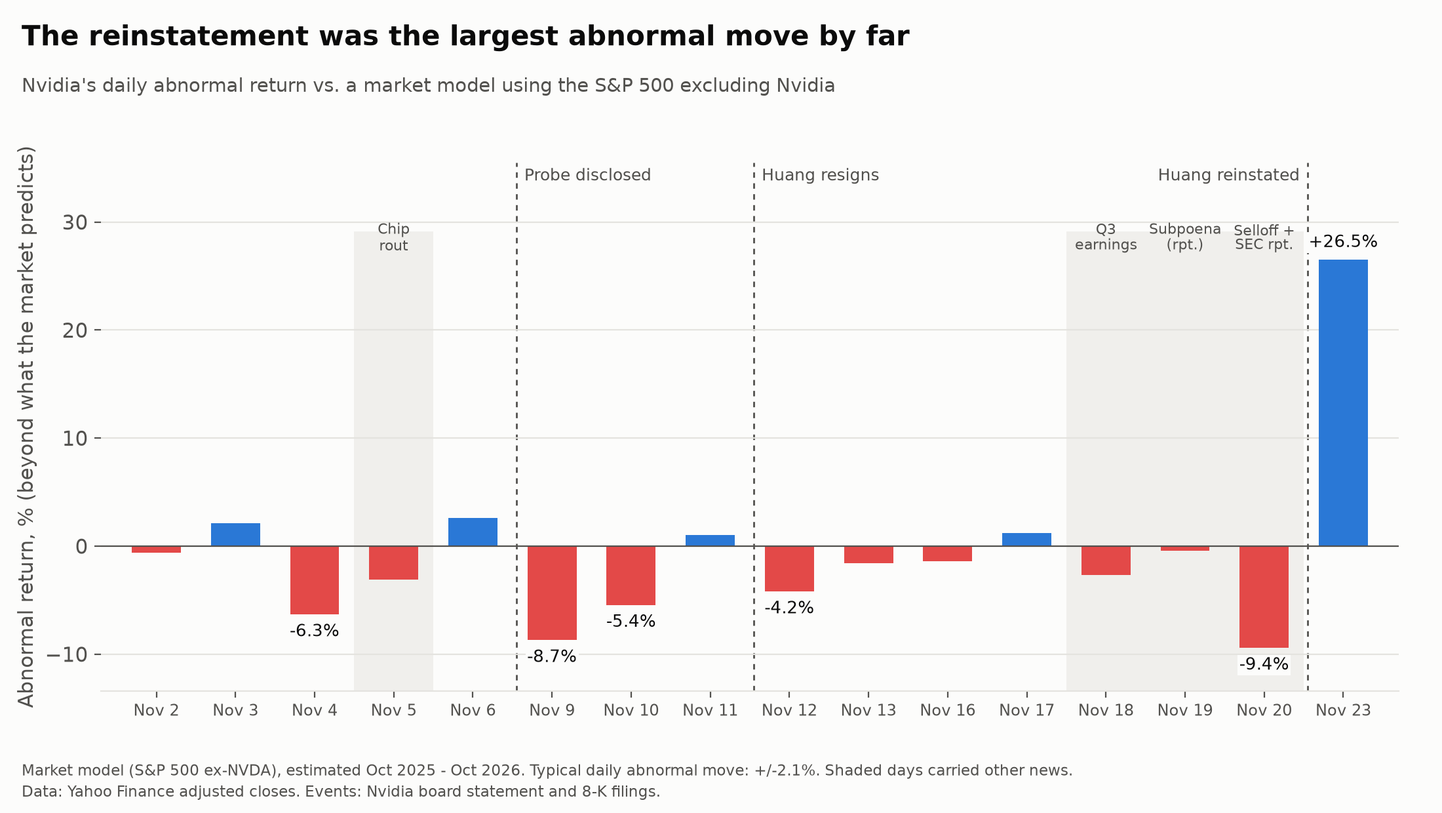
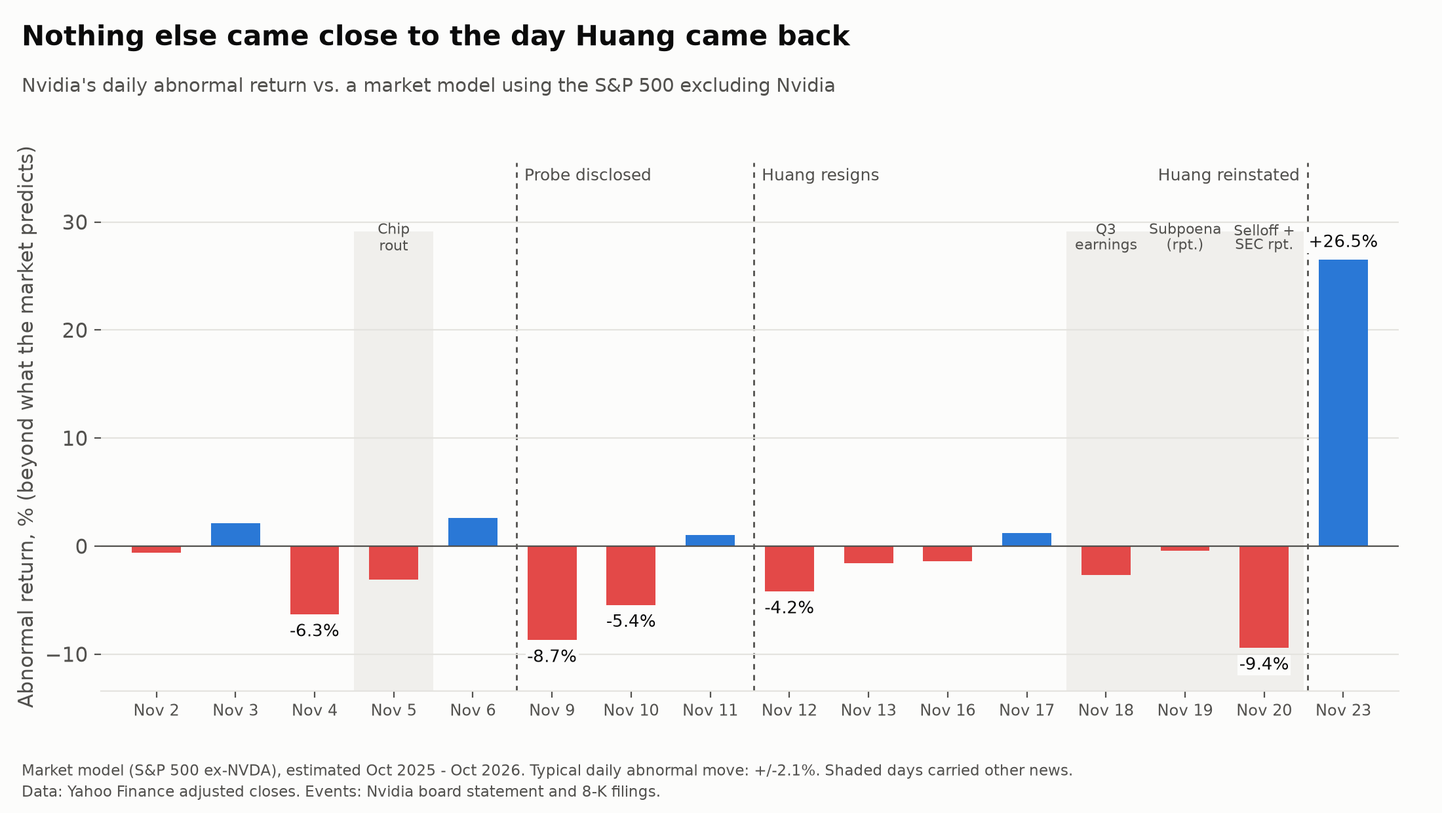
Add implied-odds and supplier-vs-rival analyses; sharpen the story
- New: implied share of Huang's exit priced in each day, and the
  partner-minus-rival abnormal spread on each event day (with charts)
- README reorganized around what the results mean
- Punchier chart titles; fix "never below 21%" (lowest spec is 20.8%)

Changed region(s): [[0.0, 0.0306, 0.6491, 0.0613]]

diff --git a/src/charts.py b/src/charts.py
@@ -87,7 +87,7 @@ for _, e in events.iterrows():
 ax.xaxis.set_major_formatter(mdates.DateFormatter("%b %d"))
 ax.set_ylabel(f"Index ({pd.Timestamp(BASE):%b} {pd.Timestamp(BASE).day} close = 100)")
 ax.legend(loc="upper right", bbox_to_anchor=(1.0, 0.93), frameon=False, fontsize=9.5)
-title(fig, f"Nvidia fell {100 - trough:.0f}%, then recovered most of it",
+title(fig, f"Nvidia lost {100 - trough:.0f}% in two weeks, then got most of it back in one day",
       f"Price indexed to the last close before the investigation was disclosed ({pd.Timestamp(BASE):%b} "
       f"{pd.Timestamp(BASE).day}, 2026). Shaded days carried other news.")
 footer(fig, "Chip peers = equal-weight AMD, AVGO, TSM, MU, INTC. Shaded: Nov 5 sector rout; Nov 18-20 earnings, "
@@ -121,7 +121,7 @@ for _, e in events.iterrows():
 ax.set_xticks(range(len(a_pct)), [f"{d:%b} {d.day}" for d in a_pct.index], fontsize=8.5)
 ax.set_xlim(-0.7, len(a_pct) - 0.3)
 ax.set_ylabel("Abnormal return, % (beyond what the market predicts)")
-title(fig, "The reinstatement was the largest abnormal move by far",
+title(fig, "Nothing else came close to the day Huang came back",
       "Nvidia's daily abnormal return vs. a market model using the S&P 500 excluding Nvidia")
 footer(fig, f"{MODEL_LABELS[PREFERRED]}, estimated Oct 2025 - Oct 2026. Typical daily abnormal move: "
             f"+/-{sd_pct:.1f}%. Shaded days carried other news.")
@@ -149,7 +149,7 @@ ax.tick_params(axis="x", length=0)
 ax.set_ylim(min(lo_all) - 260, max(hi_all) + 230)
 ax.set_ylabel("Abnormal change in market value, $ billions")
 e3 = ev_ids[-1]
-title(fig, f"Reinstatement day: {car(e3):+.1f}% abnormal return (about +${round(car(e3, col='CAR_usd_bn'), -1):,.0f}B)",
+title(fig, f"The comeback added about ${round(car(e3, col='CAR_usd_bn'), -1):,.0f}B beyond the market's move",
       f"Event-day abnormal change in Nvidia's market value. Bars: preferred model; whiskers: range across "
       f"{len(grid)} specifications.")
 footer(fig, f"Abnormal simple return x prior-day market cap ({SHARES / 1e9:.2f}B shares). The reinstatement also "
@@ -179,7 +179,7 @@ n_sig = int(s3.significant_bh.sum())
 sig_names = ", ".join(s3.index[s3.significant_bh])
 ax.legend(handles=[Patch(color=BLUE, label="Significant after multiple-testing correction"),
                    Patch(color=LIGHTBLUE, label="Not significant")], frameon=False, fontsize=9.5, loc="lower right")
-title(fig, f"After adjusting for market beta, only {sig_names} clearly outperformed" if n_sig
+title(fig, f"Chip stocks soared too, but only {sig_names} beat what the market predicts" if n_sig
       else "After adjusting for market beta, no peer clearly outperformed",
       "Peers' abnormal returns on reinstatement day. Chip stocks rose a lot, but mostly in line with their high "
       "market betas.")
@@ -223,7 +223,7 @@ for a_ in (ax1, ax2):
     a_.tick_params(axis="x", labelsize=9)
 mix = ", ".join(f"{k.replace('SPYX', 'S&P ex-NVDA')} {v:.0%}" for k, v in wts.items() if v >= 0.05)
 final_sd = sc.gap_pct.iloc[-1] / sc.band_1sd_pct.iloc[-1]
-title(fig, "Nvidia fell far below a synthetic peer benchmark, then closed most of the gap",
+title(fig, f"The real Nvidia fell {abs(pl['NVDA'].min()):.0f}% behind a stand-in built from its peers",
       f"NVDA's gap was the most extreme of 11 stocks on {n_first} of {len(summ)} days. The final "
       f"{sc.gap_pct.iloc[-1]:.0f}% gap is {abs(final_sd):.1f} SD of normal drift.")
 footer(fig, f"Synthetic NVDA = fixed mix fit on Apr-Oct 2026 daily returns: {mix}. Placebos re-run the "
@@ -249,12 +249,76 @@ handles += [Line2D([], [], marker="o", ls="", color=INK2, markersize=8, label="M
             Line2D([], [], marker="D", ls="", color=INK2, markersize=8, label="+ chip-peer factor")]
 ax.legend(handles=handles, frameon=False, fontsize=9.5, loc="lower right", ncol=3, title="Benchmark",
           title_fontsize=9.5)
-title(fig, f"All {len(g3)} specifications find a {g3[f'{e3}_AR'].min():.0f}%-{g3[f'{e3}_AR'].max():.0f}% "
-           "reinstatement-day jump",
+title(fig, f"{len(g3)} ways to measure the comeback. None comes in below {np.floor(g3[f'{e3}_AR'].min()):.0f}%.",
       f"Each is significant at |t| > {np.floor(g3[f'{e3}_t'].min()):.0f}. The preferred specification "
       f"(S&P 500 ex-NVDA, 250 days) gives {car(e3):.1f}%.")
 footer(fig, "SPY and QQQ include NVDA itself, so on a +31% NVDA day they mechanically rise with it. "
             "Differences also reflect each benchmark's fit and beta.")
 save(fig, "06_spec_curve.png")
+
+
+# --- 7. The "Huang trade": suppliers minus rivals -------------------------------
+st = pd.read_csv(OUT / "supplier_rival_spread.csv")
+fig, ax = plt.subplots(figsize=(11, 6.2))
+fig.subplots_adjust(left=0.08, right=0.97, top=0.80, bottom=0.19)
+for i, r in st.iterrows():
+    v = r.spread_AR_pct
+    ax.bar(i, v, width=0.5, color=BLUE if v >= 0 else RED, zorder=3)
+    ax.text(i, v + (0.5 if v > 0 else -0.5), f"{v:+.1f} pts\n(t = {r.t_stat:.1f})", ha="center",
+            va="bottom" if v > 0 else "top", fontsize=11.5, fontweight="bold")
+ax.axhline(0, color=INK2, lw=0.8)
+ax.set_xticks(range(len(st)), [f"{EV_SHORT[e]}\n{events.set_index('event_id').loc[e, 'date']:%b} "
+                               f"{events.set_index('event_id').loc[e, 'date'].day}" for e in st.event],
+              fontsize=11, color=INK)
+ax.tick_params(axis="x", length=0)
+lim = st.spread_AR_pct.abs().max() + 4
+ax.set_ylim(-lim, lim)
+ax.set_ylabel("Suppliers minus rivals, abnormal return (pts)")
+title(fig, "Wall Street traded Huang's fate as suppliers vs. rivals",
+      "Nvidia's partners (TSMC, Micron, Intel) minus its AI-chip rivals (AMD, Broadcom), beyond the market's move")
+footer(fig, "Spread of equal-weight baskets, market model vs S&P 500 ex-NVDA, estimated Oct 2025 - Oct 2026. "
+            "\nThe resignation and comeback spreads beat every day of the prior year; Nov 9's is matched by one. "
+            "AMD also had an analyst upgrade on Nov 9.")
+save(fig, "07_huang_trade.png")
+
+# --- 8. Implied odds of a permanent exit --------------------------------------
+od = pd.read_csv(OUT / "implied_exit_odds.csv", index_col=0, parse_dates=True)
+clean = od[od.implied_exit_odds_pct <= 100]
+over = od[od.implied_exit_odds_pct > 100]
+fig, ax = plt.subplots(figsize=(11, 6.2))
+fig.subplots_adjust(left=0.08, right=0.95, top=0.80, bottom=0.17)
+ax.axhline(100, color=INK2, lw=0.8, ls=(0, (3, 3)))
+ax.text(od.index[0], 101.5, "Fully priced: Huang gone for good", fontsize=9, color=INK2, va="bottom")
+for d in od.index[od.other_news]:
+    ax.axvspan(d - pd.Timedelta(hours=14), d + pd.Timedelta(hours=14), ymax=0.87, color=SHADE, zorder=0, lw=0)
+ax.plot(clean.index, clean.implied_exit_odds_pct, color=BLUE, lw=2.4, marker="o", markersize=7,
+        markeredgecolor=SURFACE, markeredgewidth=2, zorder=3)
+ax.set_ylim(0, 125)
+labels = [("2026-11-09", "Probe\ndisclosed", (-14, 0), "right", "center"),
+          ("2026-11-12", "Huang\nresigns", (0, 14), "center", "bottom"),
+          ("2026-11-18", "Chair: he's\nnot coming back", (0, -40), "center", "top")]
+for d, lab, off, ha, va in labels:
+    d = pd.Timestamp(d)
+    v = od.loc[d, "implied_exit_odds_pct"]
+    ax.annotate(f"{v:.0f}%", (d, v), xytext=(0, -14), textcoords="offset points", ha="center",
+                va="top", fontsize=11, fontweight="bold", color=INK)
+    ax.annotate(lab, (d, v), xytext=off, textcoords="offset points", ha=ha, va=va, fontsize=9, color=INK2)
+if len(over):
+    d = over.index[0]
+    ax.annotate(f"Nov {d.day}: {over.iloc[0].implied_exit_odds_pct:.0f}%, more than\nlosing Huang could explain",
+                xy=(d, 112), xytext=(-10, 0), textcoords="offset points", ha="right", va="center",
+                fontsize=9.5, color=INK, arrowprops=dict(arrowstyle="-|>", color=INK2, lw=1))
+    ax.annotate("", xy=(d, 116), xytext=(d, 104), arrowprops=dict(arrowstyle="-|>", color=RED, lw=2))
+ax.yaxis.set_major_formatter(plt.FuncFormatter(lambda v, _: f"{v:.0f}%"))
+ax.set_ylabel("Share of Huang's exit priced in")
+ax.xaxis.set_major_formatter(mdates.DateFormatter("%b %d"))
+ax.set_xlim(od.index[0] - pd.Timedelta(days=2), od.index[-1] + pd.Timedelta(days=1))
+title(fig, "The market had priced in most of Huang's exit before he resigned",
+      "Cumulative abnormal loss since the probe, as a share of what losing Huang for good was worth "
+      "(valued by the comeback-day jump)")
+footer(fig, "Back-of-envelope: assumes every abnormal move in the window is about Huang and the comeback "
+            "jump is his full value (it also carried\ngovernment reassurance). Shaded days carried other news, "
+            "so readings there are less reliable.")
+save(fig, "08_implied_odds.png")
 
 print("Saved charts to", OUT)

diff --git a/src/event_study.py b/src/event_study.py
@@ -139,3 +139,41 @@ spill["significant_bh"] = spill["p_bh"] < 0.05
 spill.to_csv(OUT / "peer_spillovers.csv", index=False)
 print("\nPeer abnormal returns on event days (market model vs S&P 500 ex-NVDA):\n",
       spill.pivot(index="ticker", columns="event", values=["AR_pct", "t_stat", "p_bh"]).round(2).to_string())
+
+# --- Interpretation 1: the "Huang trade" (suppliers minus rivals) -------------
+# Nvidia's manufacturing/memory partners vs. its AI-chip competitors. If the
+# market read Huang's status as news about Nvidia's competitive position, the
+# spread should move against rivals when he returns and toward them when he goes.
+SUPPLIERS, RIVALS = ["TSM", "MU", "INTC"], ["AMD", "AVGO"]
+spread = ret[SUPPLIERS].mean(axis=1) - ret[RIVALS].mean(axis=1)
+m_sp = sm.OLS(spread.loc[est.index], sm.add_constant(est["SPYX"])).fit()
+sd_sp = np.sqrt(m_sp.mse_resid)
+sp_pred = predict(m_sp, ["SPYX"], post)
+sp_rows = []
+for _, e in events.iterrows():
+    a_ = spread.loc[e.date] - sp_pred.loc[e.date]
+    k = (m_sp.resid.abs() >= abs(a_)).sum()
+    sp_rows.append(dict(event=e.event_id, label=e.label, spread_AR_pct=a_ * 100, t_stat=a_ / sd_sp,
+                        p_empirical=(k + 1) / (len(m_sp.resid) + 1),
+                        suppliers_raw_pct=np.expm1(ret.loc[e.date, SUPPLIERS]).mean() * 100,
+                        rivals_raw_pct=np.expm1(ret.loc[e.date, RIVALS]).mean() * 100))
+sp_tbl = pd.DataFrame(sp_rows)
+sp_tbl.to_csv(OUT / "supplier_rival_spread.csv", index=False)
+print("\nSupplier-minus-rival abnormal spread on event days:\n", sp_tbl.round(3).to_string(index=False))
+
+# --- Interpretation 2: implied odds of Huang's exit ----------------------------
+# Back-of-envelope: treat the reinstatement-day abnormal return as the full value
+# of having Huang vs. not. Losing him entirely is then a drop of
+# 1 - 1/(1 + AR_reinstatement). The cumulative abnormal return since disclosure,
+# divided by that, is the share of his exit the market had priced in.
+# Assumes every abnormal move in the window is about Huang, so days with other
+# news (Nov 18-20) are flagged rather than interpreted.
+ar_e3 = daily.loc[events.date.iloc[-1], f"{PREFERRED}_simple"]
+full_loss = 1 - 1 / (1 + ar_e3)
+cum_ar = (1 + daily.loc[episode, f"{PREFERRED}_simple"]).cumprod() - 1
+odds = pd.DataFrame({"cum_AR_pct": cum_ar * 100, "implied_exit_odds_pct": -cum_ar / full_loss * 100})
+odds = odds.loc[odds.index < events.date.iloc[-1]]
+odds["other_news"] = odds.index.isin(confounders.date)
+odds.to_csv(OUT / "implied_exit_odds.csv")
+print(f"\nImplied full value of Huang: +{ar_e3:.1%} with vs. without (= {full_loss:.1%} of with-Huang value)")
+print(odds.round(1).to_string())

diff --git a/README.md b/README.md
@@ -1,16 +1,18 @@
-# Nvidia Without Jensen Huang: Eleven Days in November
+# The $800 Billion Comeback
 
-*An event study of what Nvidia's stock did when its CEO was investigated, quit, and then came back.*
+*What Nvidia's stock did when Jensen Huang was investigated, quit, and came back, all in eleven trading days.*
 
-On Sunday, November 8, 2026, Nvidia's board put out a short statement saying it was investigating its own CEO. Jensen Huang had told employees he'd had a relationship with a business executive whom U.S. intelligence reportedly suspected of spying for China. Four days later he resigned, and CFO Colette Kress stepped in as interim CEO. On November 17 the board chair said Huang would not be coming back. Six days after that, the board brought him back anyway.
+On November 17, 2026, Nvidia's board chair said Jensen Huang would not be returning as CEO. Six days later the board reinstated him. Nvidia opened up 33% and by the close had added about $950 billion in market value, the biggest move of the whole episode and bigger than any day in the year before it.
 
-That gave the market eleven trading days to price Nvidia with its founder, then without him, then with him again. Over that stretch the stock lost a third of its value (about $1.5 trillion at the low) and then got most of it back. I wanted to know what each of those switches was worth, and how much of the slide had anything to do with Huang at all.
+It started on a Sunday. On November 8 the board announced it was investigating its own CEO after Huang told employees he'd had a relationship with a business executive whom U.S. intelligence reportedly suspected of spying for China. Four days later he resigned and CFO Colette Kress took over. By November 20 Nvidia had lost a third of its value, about $1.5 trillion.
 
-The short answer is that his return mattered far more than his exit. On the morning he was reinstated, Nvidia gained about 26.5% more than the market can explain. That's roughly $800 billion of value in one session. The resignation barely registered by the closing bell. And most of the slide in between happened on days when the news was about something else.
+So in less than two weeks, the market priced the company at the center of the AI boom with its founder, then without him, then with him again. That's about as close to a controlled experiment on a CEO's value as markets ever get. I wanted to know what each switch was worth, and what the pattern says about how investors were thinking.
+
+The answers surprised me. The resignation was barely news, because by the time Huang quit the stock had already priced in most of his exit. His return was the real shock, and by one reasonable measure it implies that about a fifth of Nvidia's value rode on one person. A quarter in which revenue doubled didn't lift the stock at all. And the rest of the chip industry traded Huang's fate as a bet on Nvidia's suppliers against its rivals.
 
 ![Price path](output/01_price_path.png)
 
-## Day by day
+## Three announcements, three very different reactions
 
 | | Nov 9: probe disclosed | Nov 12: Huang resigns | Nov 23: Huang reinstated |
 |---|---|---|---|
@@ -22,17 +24,73 @@ The short answer is that his return mattered far more than his exit. On the morn
 
 "Beyond what the market explains" is the abnormal return. I estimate how Nvidia normally moves with the market, using a year of data that ends on October 23, before any of this started. Whatever Nvidia did on top of that is the abnormal part. The dollar figure applies that percentage to Nvidia's market value the night before.
 
-## The day he quit, the market shrugged (eventually)
-
-The resignation came out around 9 a.m. Eastern on November 12. Nvidia opened 13% lower and at one point was down more than 14%. By the close it had clawed most of that back and finished down 4.3%. After adjusting for the market, the drop was 4.2%. Whether that counts as statistically significant depends on how you handle volatility. A standard test says yes (t = -2.1). A GARCH model, which lets volatility rise during a turbulent stretch, says no (p of about 0.1).
-
-My read is that most of the exit was already priced in. In the two days after the investigation became public, Nvidia had already fallen about 14% relative to the market. By the time Huang actually left, a lot of investors had placed that bet.
-
-The comeback was the opposite. The board chair had said publicly that Huang wasn't returning. When he did, the stock opened up 33% and closed up 31.5%. After adjusting for the market, that's a 26.5% abnormal move. That's nearly 13 times a normal day's noise and bigger than any day in the previous year.
-
-There's one catch. The board's filing said it had received input from senior levels of the U.S. government and was confident Huang's return posed no national security risk. So the $800 billion is partly Huang and partly relief that Washington seemed to be on board. I can't cleanly split the two.
-
 ![Daily abnormal returns](output/02_abnormal_returns.png)
+
+## The market had already bet on his exit
+
+The resignation came out around 9 a.m. Eastern on November 12. Nvidia opened 13% lower and at one point was down more than 14%. Then it spent the rest of the day climbing back, and closed down 4.3%. After adjusting for the market, the drop was 4.2%, small enough that whether it's statistically significant depends on how you model volatility.
+
+The first reaction was panic. The considered one was a shrug. I think that's because by November 12 there wasn't much left to price.
+
+One way to see it: suppose the comeback-day jump (+26.5%) is what having Huang is worth, compared with not having him. Then losing him for good should knock about 21% off the stock. If you track how much of that 21% Nvidia had already lost since the probe became public, you get a rough read on how sure investors were that he was gone.
+
+- 42% after the first day
+- 61% the night before he resigned
+- 79% after he resigned
+- about 90% a week later
+- 96% after the board chair said he wasn't coming back
+
+![Implied exit odds](output/08_implied_odds.png)
+
+The resignation was less news than confirmation. Most of the damage was done in the two days after the board's Sunday statement.
+
+Two other details jump out. Even after Huang formally quit, the market seems to have held back a sliver of hope that he'd return. Or my yardstick overstates his value, since the comeback day also carried government reassurance. Probably some of both. The second detail is November 20, when the measure shoots past 100% to 133%. That day the stock fell further than losing Huang permanently could explain, which is a strong hint the Nov 20 crash was about something else. More on that below.
+
+This is a back-of-envelope reading, not a formal probability. It assumes every abnormal move in the window is about Huang, so it's least reliable on the days with other news.
+
+## Why the comeback was worth so much
+
+Prices move on surprises, and this was a big one. On the morning of November 23, a market that had priced Huang as almost certainly gone had to reprice to zero. The board chair had ruled out a return six days earlier. Nvidia closed up 31.5%, or 26.5% beyond the market, nearly 13 times a normal day's noise.
+
+Turn that around and it says something striking. By this measure, about a fifth of what Nvidia was worth with Huang rode on Huang. This is a company with tens of thousands of employees, a dominant product line and a quarter of 103% revenue growth behind it, and one person still carried that much of the valuation.
+
+There's a catch, and it matters. The board's filing said it had received input from senior levels of the U.S. government and was confident Huang's return posed no national security risk. So the $800 billion is partly Huang and partly relief that Washington seemed to be on board. Treat "a fifth of the company" as an upper bound.
+
+![Dollar impact](output/03_dollar_impact.png)
+
+## Revenue doubled and the stock fell
+
+Nvidia reported third-quarter results after the close on November 17. Revenue came in at $115.8 billion, up 103% from a year earlier, and the company raised its outlook for next year. The following day the stock fell 2.9%, or 2.7% beyond the market.
+
+Earnings weren't the only news, though. The same day, the board chair said Huang wasn't coming back and the Wall Street Journal reported an SEC probe. The implied-odds measure jumped from 86% to 96%.
+
+So I can't say the earnings were worth nothing. What I can say is that in a week when the CEO question was open, a doubling of revenue was completely drowned out. The comeback moved the stock roughly ten times as much as earnings day did.
+
+## The $1.5 trillion crash mostly wasn't about Huang
+
+From November 9 through 23, Nvidia trailed the market by about 9.7%, or roughly $440 billion. Add up just the three Huang days and they come out *positive*, because the comeback outweighs the two drops. The net loss sits on the other eight days.
+
+A lot happened on those days. On top of earnings and the SEC report, there were reports of a halt to H200 sales to China and a subpoena from California's attorney general. Then on Friday, November 20, chip stocks sold off hard. Nvidia opened only slightly lower, slid all day, and closed down 14%. It was the worst session of the episode, and the one where the implied-odds measure broke above 100%.
+
+None of that is a Huang event, so I don't count it as one. Those days are shaded in the charts and listed with sources in [`data/confounders.csv`](data/confounders.csv).
+
+## The Huang trade: long suppliers, short rivals
+
+On reinstatement day, Micron rose 19%, Intel 16% and TSMC 14%. Taken one at a time, most of that is market beta. The whole market was up about 3%, and these stocks typically move two to three times as much as the market does. After correcting for 30 separate tests, only TSMC beats its prediction on its own.
+
+Split the chip stocks into two camps, though, and a sharp pattern shows up. One camp is Nvidia's partners: TSMC builds its chips, Micron supplies its memory, and Intel works with it on products. The other camp is its AI-chip rivals, AMD and Broadcom. Here's how the gap between the two camps moved:
+
+- When the probe was disclosed, the partners fell 6.1 points behind the rivals (t = -2.7).
+- When Huang resigned, they fell 7.6 points behind (t = -3.4).
+- When he came back, the partners beat the rivals by 9.8 points (t = 4.4).
+
+The resignation and comeback gaps are bigger than any day in the prior year. The disclosure-day gap is a little muddied, because AMD also got an analyst upgrade that morning.
+
+![The Huang trade](output/07_huang_trade.png)
+
+The market read Huang's job status as news about who wins the AI chip race. With him out, Nvidia's competitors looked better and its partners looked worse. With him back, it flipped. Investors repriced the whole ecosystem around one person.
+
+![Spillovers](output/04_spillovers.png)
 
 ## Measuring Nvidia against itself
 
@@ -40,17 +98,7 @@ The first trap I ran into: the obvious yardstick, the S&P 500, is about 8% Nvidi
 
 So I rebuilt the S&P 500 without Nvidia. I started from Nvidia's index weight on October 23 (7.77%, according to WhichIndex) and let it drift each day with Nvidia's price relative to the index. To check it, I compared the weights it implies on other dates with published holdings: 8.45% vs. 8.50% on October 2, and 7.59% vs. 7.58% on October 31. It also tracks Nvidia much better than the equal-weight S&P 500 does (R² of 0.24 vs. 0.05), so it became my main benchmark.
 
-## Where the losses actually came from
-
-From November 9 through 23, Nvidia trailed the market by about 9.7%, or roughly $440 billion. The three Huang days, added together, come out *positive*, because the comeback outweighs the two drops. Every bit of the net loss sits on the other eight days.
-
-A lot happened on those days. Nvidia reported third-quarter earnings after the close on November 17: $115.8 billion in revenue, up 103%, delivered by an interim CEO. The same day, the Wall Street Journal reported an SEC probe. Reports followed of a halt to H200 sales to China and a subpoena from California's attorney general. Then on Friday, November 20, chip stocks sold off hard. Nvidia opened only slightly lower, slid all day, and closed down 14%, its worst session of the episode.
-
-None of that is a Huang event, so I don't count it as one. Those days are shaded in the charts and listed with sources in [`data/confounders.csv`](data/confounders.csv).
-
-![Dollar impact](output/03_dollar_impact.png)
-
-## A stand-in Nvidia
+## Building a fake Nvidia to check my work
 
 A regression is one way to estimate what Nvidia "should" have done. Another is to build a stand-in. I found the mix of stocks that best tracked Nvidia's daily returns from April to October: about half TSMC, plus the S&P 500 ex-Nvidia, Meta, Microsoft and Broadcom. Then I froze that mix and let it run through November.
 
@@ -60,14 +108,6 @@ To make sure this wasn't an artifact of the method, I ran the same thing on each
 
 ![Synthetic control](output/05_synthetic_control.png)
 
-## Did the rest of the chip world ride along?
-
-On reinstatement day, Micron rose 19%, Intel 16% and TSMC 14%. That looks like Nvidia lifting the whole supply chain. But the broader market was up about 3% that day, and these stocks typically move two to three times as much as the market does. Once you account for that, and for the fact that I ran 30 tests (10 stocks across 3 events), only TSMC stands out, at about 7% above what the market predicts.
-
-I also thought I'd spotted money rotating into AMD and Broadcom while Huang was gone. It didn't survive the same correction.
-
-![Spillovers](output/04_spillovers.png)
-
 ## What I got wrong the first time
 
 When I stress-tested my first draft, several things fell apart.
@@ -76,23 +116,33 @@ When I stress-tested my first draft, several things fell apart.
 - I called the episode a "round trip." It wasn't. Nvidia still ended about 10% below its stand-in.
 - I missed that earnings and several regulatory stories landed in the middle of the window.
 - My main benchmark was the equal-weight S&P 500, which barely tracks Nvidia.
-- The rotation story and most of the spillover story disappeared once the benchmark was better and the multiple testing was handled properly.
+- I claimed money rotated into AMD and Broadcom while Huang was out. With a better benchmark, no single rival stands out. The gap between Nvidia's partners and its rivals, on the other hand, turned out to be one of the clearest patterns in the project.
 
-Fixing all of that made the headline number slightly larger and made the rest of the story smaller and more honest.
+Fixing all of that made the headline number slightly larger, and the story got more interesting.
 
 ## How sure am I about the $800 billion?
 
-Fairly sure about the direction and the rough size. I re-estimated the reinstatement-day move 24 ways: three estimation windows, four different market benchmarks, with and without a chip-sector factor. Every version lands between +21% and +30%, and the weakest is still more than 9 standard errors from zero. A GARCH model fit only on pre-event data gives a z-score of 6.3.
+Fairly sure about the direction and the rough size. I re-estimated the reinstatement-day move 24 ways: three estimation windows, four different market benchmarks, with and without a chip-sector factor. Every version lands between about 21% and 30% (20.8% at the very lowest), and even the weakest is more than 9 standard errors from zero. A GARCH model fit only on pre-event data gives a z-score of 6.3.
 
 The disclosure day holds up in all 24 versions. The resignation day holds up in 19, which is why I call it mixed.
 
 ![Specification curve](output/06_spec_curve.png)
+
+## Why I think this matters
+
+The usual line is that markets react to news. This episode makes a sharper point. They react to surprise. A CEO resigning should be about as big as corporate news gets, yet it moved Nvidia less than some of the quiet days around it, because by then hardly anyone was surprised. The comeback moved it more than any day in the previous year, because almost nobody saw it coming.
+
+It's also a reminder of how concentrated key-person risk has become. Nvidia is one of the largest companies in the world, and for two weeks a meaningful slice of its value moved with one person's job status, more than it moved with a doubling of revenue.
+
+And the effect spread well past Nvidia. Investors immediately sorted the chip industry into Huang's partners and his competitors and traded the gap between them. When one CEO is that central to an industry, his key-person risk spreads to every company around him.
 
 ## What this can't tell you
 
 It can't tell you what Huang is personally worth. The reinstatement came bundled with the government reassurance, and I have no way to separate the two.
 
 The disclosure may also have leaked. Reports about Megaspeed, the company the executive worked for, started on October 29, and Nvidia had an unexplained 6.3% abnormal drop on November 4. Some of the Nov 9 reaction may have been priced early.
+
+The implied-odds and "fifth of the company" figures rest on the assumption that the comeback-day jump measures Huang's full value. They're a way of reading the numbers, not a structural estimate.
 
 Each event is a single day for a single company, so these are case-study numbers and not a general rule about CEOs.
 
@@ -105,8 +155,9 @@ Finally, the investigations are still open. This project measures how the market
 3. **Abnormal return** is cumulative actual simple return minus cumulative predicted simple return. Times the prior market cap, that gives the dollar gap against the counterfactual.
 4. **Inference:** t-statistics on summed log abnormal returns, GARCH(1,1) z-scores with Student-t errors (fit pre-event, filtered forward with fixed parameters so sigma at *t* only uses data through *t-1*), and empirical p-values from same-length residual sums.
 5. **Stand-in Nvidia:** a returns-based synthetic control. Weights are non-negative, sum to one and minimise tracking error over April to October 2026. Inference uses placebo runs on every donor, plus a noise band from pre-period tracking gaps.
-6. **Spillovers:** a market model for each peer, with a Benjamini-Hochberg correction across all 30 peer-event tests.
-7. **Event timing:** the board statement came out on a Sunday, and both 8-Ks were reported around 9 a.m. Eastern, before the open. Day 0 is the first session after each announcement. See [`data/events.csv`](data/events.csv).
+6. **Spillovers:** a market model for each peer, with a Benjamini-Hochberg correction across all 30 peer-event tests. The partner-vs-rival spread (equal-weight TSM, MU, INTC minus AMD, AVGO) gets its own market model and is tested on each event day.
+7. **Implied exit odds:** cumulative abnormal return since disclosure, divided by the loss implied by the comeback-day jump, 1 - 1/(1 + 26.5%) ≈ 21%. A heuristic, not a structural model.
+8. **Event timing:** the board statement came out on a Sunday, and both 8-Ks were reported around 9 a.m. Eastern, before the open. Day 0 is the first session after each announcement. See [`data/events.csv`](data/events.csv).
 
 ## Run it yourself
 
@@ -127,6 +178,8 @@ All the study settings live in [`src/config.py`](src/config.py). Results land in
 | `robust_spec_grid.csv` | All 24 model variations |
 | `synthetic_control_*.csv` | Stand-in weights, path, placebos and sensitivity checks |
 | `peer_spillovers.csv` | Peer abnormal returns with corrected p-values |
+| `supplier_rival_spread.csv` | The Huang trade: partner-minus-rival abnormal spread on each event day |
+| `implied_exit_odds.csv` | Daily implied share of Huang's exit priced in |
 
 ## Sources
 
